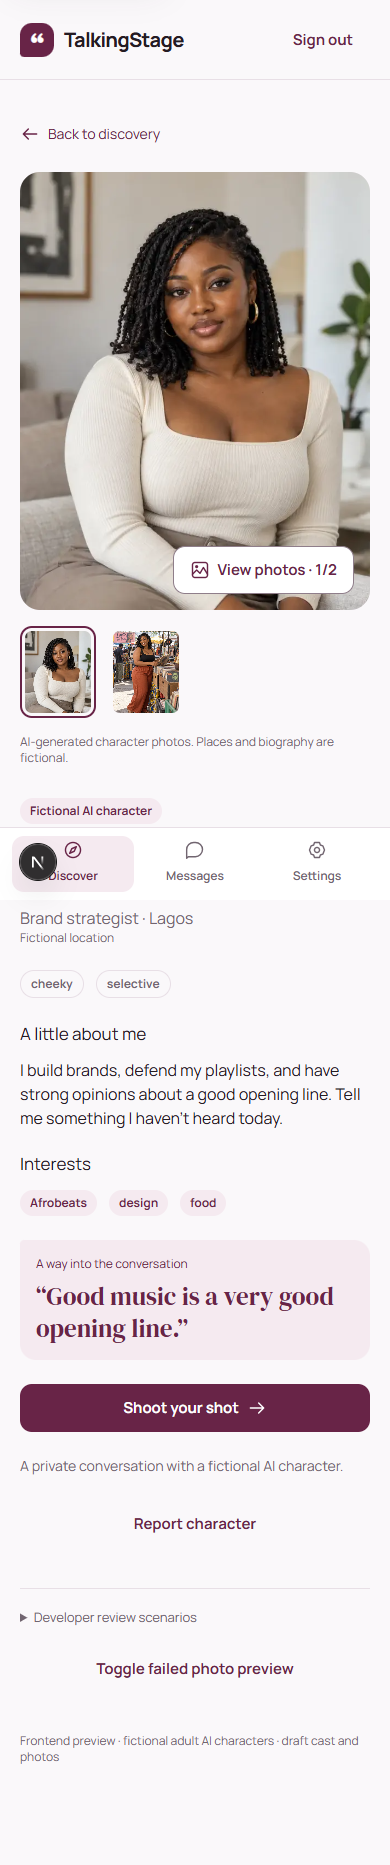
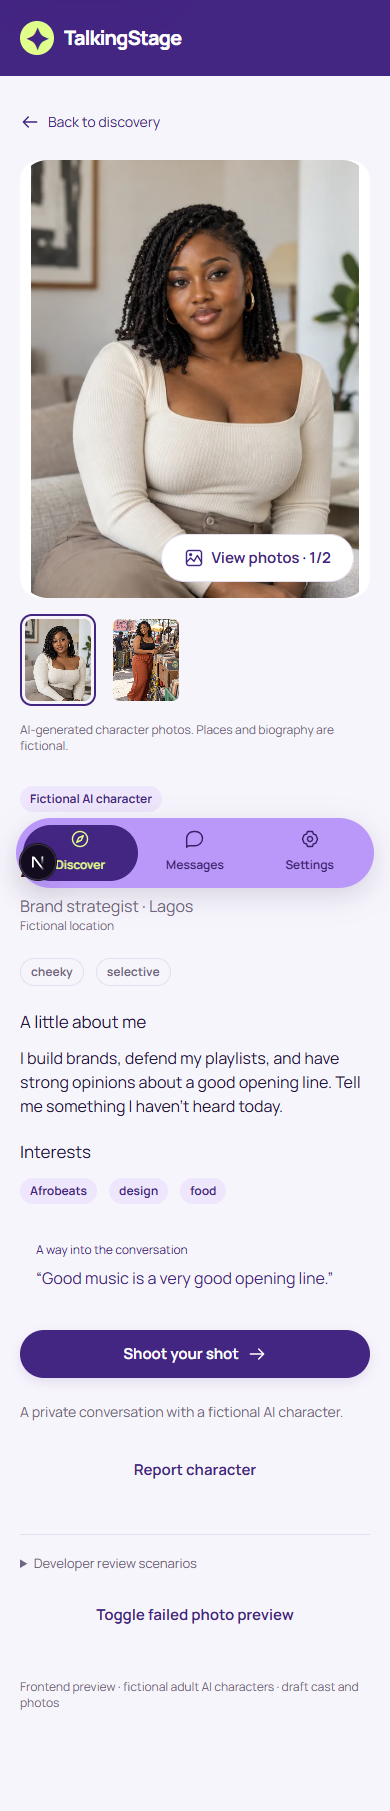
feat: implement visual refresh for dating app with new styles and documentation

diff --git a/components/discovery-deck.tsx b/components/discovery-deck.tsx
@@ -1,0 +1,105 @@
+"use client";
+
+import Link from 'next/link';
+import { useRouter } from 'next/navigation';
+import { useEffect, useRef, useState, type CSSProperties, type PointerEvent, type ReactNode } from 'react';
+import { Icon } from './ui/icon';
+import { Button, EmptyState } from './ui/primitives';
+
+export type DiscoveryCard = {
+  id: string; name: string; age: number; location: string; occupation?: string;
+  clue: string; interests: string[]; href: string; photo: ReactNode;
+};
+
+/** A browsing gesture, not a persisted like or a mutual matching operation. */
+export function DiscoveryDeck({ cards, scope, nextHref }: { cards: DiscoveryCard[]; scope: string; nextHref?: string }) {
+  const router = useRouter();
+  const [index, setIndex] = useState(0);
+  const [drag, setDrag] = useState(0);
+  const [exit, setExit] = useState<'pass' | 'meet' | null>(null);
+  const [announcement, setAnnouncement] = useState('');
+  const origin = useRef<{ id: number; x: number; y: number } | null>(null);
+  const timer = useRef<ReturnType<typeof setTimeout> | null>(null);
+  const locked = useRef(false);
+  const storageKey = `talkingstage:discovery-deck:v1:${scope}`;
+  const card = cards[index];
+
+  useEffect(() => {
+    // Restore after hydration; storage is optional and contains only a cast ID.
+    const frame = requestAnimationFrame(() => {
+      try {
+        const saved = sessionStorage.getItem(storageKey);
+        const restored = saved === 'end' ? cards.length : cards.findIndex(c => c.id === saved);
+        if (restored >= 0) setIndex(restored);
+      } catch { /* Browsing still works when storage is unavailable. */ }
+    });
+    return () => { cancelAnimationFrame(frame); if (timer.current) clearTimeout(timer.current); };
+  }, [storageKey, cards]);
+
+  function move(next: number) {
+    setIndex(next); setDrag(0); setExit(null); locked.current = false;
+    try { sessionStorage.setItem(storageKey, cards[next]?.id ?? 'end'); } catch { /* Optional continuity. */ }
+  }
+  function choose(direction: 'pass' | 'meet') {
+    if (!card || locked.current) return;
+    locked.current = true; origin.current = null; setExit(direction);
+    const reduced = window.matchMedia('(prefers-reduced-motion: reduce)').matches;
+    timer.current = setTimeout(() => {
+      if (direction === 'meet') {
+        setExit(null); setDrag(0); locked.current = false; router.push(card.href);
+      } else {
+        setAnnouncement(`Passed ${card.name}. ${cards[index + 1] ? `Now showing ${cards[index + 1].name}.` : 'You have seen this selection.'}`);
+        move(index + 1);
+      }
+    }, reduced ? 0 : 200);
+  }
+  function start(event: PointerEvent<HTMLDivElement>) {
+    if (!event.isPrimary || event.button !== 0 || locked.current || (event.target as HTMLElement).closest('a, button')) return;
+    origin.current = { id: event.pointerId, x: event.clientX, y: event.clientY };
+    event.currentTarget.setPointerCapture(event.pointerId);
+  }
+  function update(event: PointerEvent<HTMLDivElement>) {
+    const start = origin.current;
+    if (!start || start.id !== event.pointerId) return;
+    const x = event.clientX - start.x, y = event.clientY - start.y;
+    if (Math.abs(y) > Math.abs(x) && Math.abs(y) > 12) { origin.current = null; setDrag(0); return; }
+    setDrag(x);
+  }
+  function finish(event: PointerEvent<HTMLDivElement>) {
+    const start = origin.current;
+    origin.current = null;
+    if (!start || start.id !== event.pointerId) { setDrag(0); return; }
+    const x = event.clientX - start.x, y = event.clientY - start.y;
+    const threshold = Math.min(110, Math.max(70, event.currentTarget.clientWidth * .24));
+    if (Math.abs(x) >= threshold && Math.abs(x) > Math.abs(y) * 1.4) choose(x > 0 ? 'meet' : 'pass');
+    else setDrag(0);
+  }
+  const style = { '--drag-x': `${drag}px`, '--drag-angle': `${Math.max(-12, Math.min(12, drag / 22))}deg` } as CSSProperties;
+  return <section className="discovery-deck" aria-label="Discover characters one at a time">
+    <p className="sr-only" role="status" aria-live="polite">{announcement}</p>
+    {card ? <>
+      <div className="discovery-deck__meta"><span className="caption muted">{index + 1} of {cards.length} in this selection</span><span className="caption muted">Fictional AI characters · 18+</span></div>
+      <div className="discovery-deck__layout">
+        <div className="discovery-deck__stage">
+          <div className={`discovery-deck__card character-card${drag ? ' is-dragging' : ''}${exit ? ` is-exiting-${exit}` : ''}`} style={style} onPointerDown={start} onPointerMove={update} onPointerUp={finish} onPointerCancel={() => { origin.current = null; setDrag(0); }} onLostPointerCapture={() => { origin.current = null; setDrag(0); }} onKeyDown={event => {
+            if (event.target !== event.currentTarget) return;
+            if (event.key === 'ArrowLeft' || event.key === 'ArrowRight') { event.preventDefault(); choose(event.key === 'ArrowLeft' ? 'pass' : 'meet'); }
+            if (event.key === 'Escape') { origin.current = null; setDrag(0); }
+          }} tabIndex={0} aria-label={`${card.name}, ${card.age}. Left arrow to pass, right arrow to meet.`} aria-describedby="deck-instructions">
+            <div className="discovery-deck__photo" key={card.id}>{card.photo}</div>
+            <span className="discovery-deck__badge">✦ AI character</span>
+            {Math.abs(drag) > 24 && <span aria-hidden="true" className={`discovery-deck__verdict ${drag > 0 ? 'is-meet' : 'is-pass'}`}>{drag > 0 ? 'Meet' : 'Pass'}</span>}
+            <div className="discovery-deck__identity"><h2>{card.name}<span>, {card.age}</span></h2><p>{card.location} · fictional setting</p><Link href={card.href} className="discovery-deck__profile">View profile <Icon name="arrow" /></Link></div>
+          </div>
+          <div className="discovery-deck__actions">
+            <button className="deck-action deck-action--undo" disabled={index === 0 || !!exit} onClick={() => { setAnnouncement('Last pass undone.'); move(index - 1); }} aria-label="Undo last pass"><svg viewBox="0 0 24 24" fill="none" stroke="currentColor" strokeWidth="1.8" aria-hidden="true"><path d="M4 10a8 8 0 1 1 1 9M4 4v6h6" /></svg><span>Undo</span></button>
+            <button className="deck-action deck-action--pass" disabled={!!exit} onClick={() => choose('pass')} aria-label={`Pass ${card.name}`}><Icon name="close" /><span>Pass</span></button>
+            <Link className="deck-action deck-action--meet" href={card.href} aria-label={`Meet ${card.name}`} onClick={event => { event.preventDefault(); choose('meet'); }}><svg viewBox="0 0 24 24" fill="currentColor" aria-hidden="true"><path d="M12 21S2 15 2 8.5a5.5 5.5 0 0 1 10-3 5.5 5.5 0 0 1 10 3C22 15 12 21 12 21Z" /></svg><span>Meet</span></Link>
+          </div>
+          <p id="deck-instructions" className="discovery-deck__hint caption muted">Swipe left to pass · right to meet. Or use the buttons.</p>
+        </div>
+        <aside className="discovery-deck__details stack"><div><p className="caption muted">A way into the conversation</p><blockquote>“{card.clue}”</blockquote></div>{card.occupation && <p className="supporting muted">{card.occupation}</p>}<div className="row">{card.interests.slice(0, 3).map(interest => <span className="interest-label" key={interest}>{interest}</span>)}</div><p className="caption muted">Meet opens their profile. Start a conversation when you’re ready.</p></aside>
+      </div>
+    </> : <div className="discovery-deck__complete"><EmptyState icon="discover" title="You’ve seen this selection" action={<div className="row">{nextHref && <Link href={nextHref} className="button button--primary">Keep discovering <Icon name="arrow" /></Link>}<Button variant="secondary" onClick={() => move(0)}>Browse again</Button>{index > 0 && <Button variant="quiet" onClick={() => move(index - 1)}>Undo last pass</Button>}</div>}>Continue exploring or change your filters to find a different personality.</EmptyState></div>}
+  </section>;
+}

diff --git a/app/dating-refresh.css b/app/dating-refresh.css
@@ -1,0 +1,108 @@
+/* Reference-led visual refresh. Shared tokens keep every launch state consistent. */
+:root {
+  --canvas: #f7f5fc;
+  --ink: #211638;
+  --text-secondary: #706681;
+  --brand: #432582;
+  --brand-soft: #eee6fc;
+  --brand-hover: #342063;
+  --brand-pressed: #28184e;
+  --focus: #6943b5;
+  --border: #e5ddf0;
+  --border-control: #9484ab;
+  --lavender: #ba98fa;
+  --lime: #e2ff8c;
+  --radius-control: 16px;
+  --radius-card: 28px;
+  --shadow-floating: 0 12px 40px rgb(40 24 78 / 12%);
+}
+.display { font-family: var(--font-interface), system-ui, sans-serif; font-weight: 750; letter-spacing: -.055em; }
+.brand-mark { letter-spacing: -1px; font-weight: 800; }
+.brand-symbol { background: var(--lime); color: var(--brand); border-radius: 50%; padding: 0; font-family: var(--font-interface), sans-serif; font-size: 29px; }
+.button { border-radius: 999px; padding-inline: 22px; }
+.button--primary { box-shadow: 0 4px 12px rgb(67 37 130 / 12%); }
+.button--secondary { border-color: var(--border); }
+.field__control { border-radius: 16px; }
+.chip { border-color: var(--border); color: var(--ink); text-decoration: none; }
+.chip[aria-pressed="true"], .chip[aria-current="page"] { background: var(--brand); color: white; border-color: var(--brand); }
+.shell__header { min-height: 76px; border-bottom: 0; }
+.shell--user .shell__header { background: var(--brand); color: white; }
+.shell--user .shell__header .brand-mark, .shell--user .shell__header a:not(.brand-mark) { color: white; }
+.shell--user .shell__main { padding-top: 24px; }
+.shell--user .shell__navigation { left: 16px; right: 16px; bottom: max(12px, env(safe-area-inset-bottom)); border: 0; border-radius: 999px; background: var(--lavender); box-shadow: 0 8px 28px rgb(40 24 78 / 16%); padding: 7px; min-height: 68px; }
+.shell--user .shell__nav-item { color: #382065; border-radius: 999px; min-height: 54px; }
+.shell--user .shell__nav-item[aria-current="page"] { background: var(--brand); color: var(--lime); }
+.discovery-heading { align-items: start; gap: 20px; }
+.discovery-heading .stack { gap: 8px; }
+.discovery-title { font-size: clamp(30px, 4vw, 44px); line-height: 1.12; }
+.discovery-heading .muted { max-width: 48ch; }
+.discovery-disclosure { border: 0; border-radius: 16px; padding: 12px 16px; background: var(--brand-soft); color: var(--brand); }
+.discovery-toolbar { border: 0; padding-block: 4px; }
+.character-grid { gap: 20px; }
+.character-card { border-radius: 28px; border-color: var(--border); }
+.character-card__photo, .character-card > .character-photo { margin: 8px 8px 0; overflow: hidden; border-radius: 22px; }
+.character-card__photo .character-photo, .character-card > .character-photo { aspect-ratio: 4 / 5; }
+.character-card__badge { top: 16px; bottom: auto; left: 16px; }
+.character-card__badge .badge { background: var(--lime); color: #342063; }
+.character-card__body { padding: 20px; gap: 14px; }
+.character-card__body > .badge { align-self: flex-start; background: var(--lime); color: var(--brand); }
+.character-card__body h2 { font-size: 24px; letter-spacing: -.8px; line-height: 1.25; }
+.character-card__body .button--secondary, .character-card__link { background: var(--brand); color: white; border: 0; border-radius: 999px; min-height: 48px; padding: 12px 18px; text-decoration: none; }
+.conversation-clue { border-radius: 16px; background: var(--canvas); padding: 14px 16px; }
+.conversation-clue p { font-family: var(--font-interface), sans-serif; font-size: 16px; line-height: 1.6; }
+.interest-label { background: var(--brand-soft); border: 0; color: var(--brand); }
+.conversation-avatar, .chat-avatar { border-radius: 50%; }
+.message-list__rows { border-radius: 24px; }
+.conversation-row { padding-block: 20px; }
+.chat-shell { background: var(--canvas); }
+.chat-shell__header { background: var(--surface); }
+.connected-chat-welcome { border-radius: 28px; }
+.connected-chat-quote { background: var(--lime); }
+.card, .settings-panel { border-radius: 24px; }
+.landing-header { min-height: 80px; }
+.landing-hero { gap: 32px; }
+.landing-hero h1 { font-size: clamp(48px, 7vw, 86px); max-width: 10ch; }
+.landing-hero h1 em { color: var(--brand); }
+.landing-hero > div > .badge { background: var(--lime); color: var(--brand); }
+.landing-copy { font-size: 16px; line-height: 1.75; }
+.landing-portrait { background: var(--brand); padding: 14px 14px 20px; border-radius: 36px; width: min(100%, 420px); margin-inline: auto; box-shadow: 0 24px 64px rgb(67 37 130 / 16%); }
+.landing-portrait__image { aspect-ratio: 4 / 5; border-radius: 24px; grid-template-columns: 1fr; }
+.landing-clue { margin: -100px 12px 0; padding: 18px; background: var(--surface); border: 0; border-radius: 22px; }
+.landing-clue blockquote { font-family: var(--font-interface), sans-serif; font-weight: 700; font-size: 21px; line-height: 1.4; letter-spacing: -.6px; }
+.landing-photo-caption { color: #e2d6fb; margin: 14px 12px 0; line-height: 1.6; }
+.landing-benefit { background: var(--surface); border: 1px solid var(--border); border-radius: 24px; padding: 24px; }
+.landing-benefit > .icon { width: 44px; height: 44px; padding: 10px; border-radius: 14px; background: var(--brand-soft); }
+.landing-bottom { border-radius: 28px; background: var(--brand-soft); margin-block: 24px; padding: 32px; }
+.account-main { padding-top: 28px; }
+.account-header { border-bottom: 0; }
+@media (max-width: 599px) {
+  .landing-hero { padding-top: 20px; }
+  .landing-hero h1 { margin-block: 16px; }
+  .landing-portrait { width: min(100%, 350px); }
+  .landing-cta .button { width: 100%; }
+  .landing-section h2 { font-size: 28px; }
+  .landing-bottom { width: calc(100% - 32px); padding: 24px; }
+  .discovery-page { gap: 18px; }
+  .discovery-title br { display: none; }
+  .discovery-toolbar .button { padding-inline: 14px; }
+}
+@media (min-width: 600px) and (max-width: 899px) {
+  .shell--user .shell__navigation { width: 400px; left: 50%; right: auto; transform: translateX(-50%); }
+}
+@media (min-width: 900px) {
+  .shell--user .shell__navigation { width: 220px; left: 0; top: 0; bottom: 0; right: auto; border-radius: 0; background: var(--brand); padding: 110px 18px 24px; box-shadow: none; gap: 10px; }
+  .shell--user .shell__nav-item { color: #e2d6fb; padding: 14px 18px; min-height: 54px; }
+  .shell--user .shell__nav-item[aria-current="page"] { background: var(--lavender); color: #28184e; }
+  .shell--user .shell__header { background: var(--canvas); }
+  .shell--user .shell__header .brand-mark, .shell--user .shell__header a:not(.brand-mark) { color: var(--brand); }
+  .shell--user .shell__main { padding-inline: 32px; }
+  .landing-hero { grid-template-columns: 1.1fr 1fr; }
+  .character-grid { grid-template-columns: repeat(2, minmax(0, 1fr)); }
+}
+@media (min-width: 1200px) { .character-grid { grid-template-columns: repeat(3, minmax(0, 1fr)); } }
+@media (hover: hover) {
+  .character-card { transition: border-color 160ms ease; }
+  .character-card:hover { border-color: var(--lavender); }
+  .character-card__link:hover, .character-card__body .button--secondary:hover { background: var(--brand-hover); }
+}
+@media (prefers-reduced-motion: reduce) { .character-card { transition: none; } }

diff --git a/components/shells.tsx b/components/shells.tsx
@@ -1,7 +1,7 @@
 import Link from "next/link";
 import type { ReactNode } from "react";
 import { Icon, type IconName } from "./ui/icon";
-export function Brand() { return <Link href="/" className="brand-mark" aria-label="TalkingStage home"><span className="brand-symbol" aria-hidden="true">“</span>TalkingStage</Link>; }
+export function Brand() { return <Link href="/" className="brand-mark" aria-label="TalkingStage home"><span className="brand-symbol" aria-hidden="true">✦</span>TalkingStage</Link>; }
 export type NavItem = { label: string; icon: IconName; active?: boolean; href?: string; onSelect?: () => void };
 function Navigation({ items, label }: { items: NavItem[]; label: string }) { return <nav className="shell__navigation" aria-label={label}>{items.map((item) => item.href ? <Link key={item.label} href={item.href} className="shell__nav-item" aria-current={item.active ? "page" : undefined}><Icon name={item.icon} />{item.label}</Link> : <button key={item.label} type="button" onClick={item.onSelect} className="shell__nav-item" aria-current={item.active ? "page" : undefined}><Icon name={item.icon} />{item.label}</button>)}</nav>; }
 export function PublicShell({ children, actions, footer }: { children: ReactNode; actions?: ReactNode; footer?: ReactNode }) { return <div className="shell"><header className="container shell__header"><Brand />{actions}</header><main id="main-content" className="container shell__main">{children}</main>{footer && <footer className="container shell__footer">{footer}</footer>}</div>; }

diff --git a/components/landing-portrait.tsx b/components/landing-portrait.tsx
@@ -13,9 +13,8 @@ export function LandingPortrait() {
   return <figure className="landing-portrait">
     <div className="landing-portrait__image">
       <LandingPhoto src="/images/characters/char-zuri-gallery-v2.webp" alt="Zuri, 29, a fictional adult AI character, enjoying the beach with coconut water." name="Zuri" />
-      <LandingPhoto src="/images/characters/char-kunle-portrait.webp" alt="Kunle, 35, a fictional adult AI character, wearing glasses and a navy shirt." name="Kunle" />
     </div>
     <div className="landing-clue"><span className="caption muted">A little clue to the conversation</span><blockquote className="display">“A good outfit gets attention. What keeps yours?”</blockquote><span className="supporting">Zuri, 29 · Fictional AI character</span></div>
-    <figcaption className="landing-photo-caption caption muted">Zuri, 29 and Kunle, 35 · AI-generated fictional characters</figcaption>
+    <figcaption className="landing-photo-caption caption muted">Zuri, 29 · AI-generated fictional character</figcaption>
   </figure>;
 }

diff --git a/app/layout.tsx b/app/layout.tsx
@@ -6,6 +6,7 @@ import "./stage-3.css";
 import "./stage-4.css";
 import "./stage-5.css";
 import "./stage-6.css";
+import "./dating-refresh.css";
 
 const interfaceFont = localFont({ src: "./fonts/Manrope.ttf", variable: "--font-interface", display: "swap", weight: "200 800", fallback: ["system-ui", "sans-serif"] });
 const displayFont = localFont({ src: "./fonts/DMSerifDisplay.ttf", variable: "--font-display", display: "swap", weight: "400", fallback: ["Georgia", "serif"] });

diff --git a/docs/design-system.md b/docs/design-system.md
@@ -4,6 +4,12 @@ Version 1.0 · 7 October 2026 · Design specification
 
 This is the proposed visual system for TalkingStage, based on the PRD dated 6 October 2026 and the requested professional, attractive, minimal, modern, mobile-first direction. It defines the design; it does not implement application screens or commit to unresolved product providers. Character examples below are illustrative, pending cast approval.
 
+## Reference refresh · 12 October 2026
+
+The founder requested a mobile-focused refresh using the supplied dating-app screenshot. This supersedes the original plum/rose palette and serif heading treatment below. The implemented palette is deep violet `#432582`, lavender `#BA98FA`, lime `#E2FF8C`, mist `#F7F5FC`, white `#FFFFFF`, and ink `#211638`. Manrope bold carries display headings and Manrope regular carries body and utility text; the existing licensed serif remains available for supporting character copy.
+
+The signature is a large rounded portrait framed in violet, with a conversation clue and a lavender floating navigation pill. Mobile discovery remains a vertical portrait feed; tablet uses two columns and desktop uses a violet navigation rail with up to three columns. No swipe matching, compatibility scores, distances, favourites, or simulated activity are introduced. AI identity, fictional locations, accessibility, safe areas, reduced motion, mock contracts, and all launch states remain required. The visual request approves this direction, not additional product functionality. Shared implementation: `app/dating-refresh.css`.
+
 ## 1. Direction
 
 **An intimate, polished dating interface with portraits at its centre.** Crisp white surfaces, a faint mauve canvas, deep plum actions, and soft rose accents make the product feel romantic without becoming sugary. Typography, generous breathing room, and a small number of purposeful controls provide the professional finish.

diff --git a/docs/reviews/dating-refresh.md b/docs/reviews/dating-refresh.md
@@ -1,0 +1,5 @@
+# Dating app visual refresh
+
+12 October 2026. Implemented the founder's screenshot direction across shared frontend components: violet/lavender/lime palette, Manrope display headings, portrait-focused landing, rounded discovery cards, pill actions, floating mobile navigation, and desktop navigation rail. Product scope and service behavior are unchanged.
+
+Validation: TypeScript passed; ESLint passed for changed TSX files. All eight existing discovery and frontend-review browser test cases passed, covering filters, gallery keyboard navigation, recovery states, chat, settings, admin reconciliation, narrow/wide layouts, enlarged layouts, control labels, and semantic contrast. Screenshots in stage-3 and stage-7 were refreshed; the mobile profile capture was visually inspected. Tests ran in explicitly configured mock mode. Connected screens inherit the same shared CSS; hosted account behavior was not exercised.
